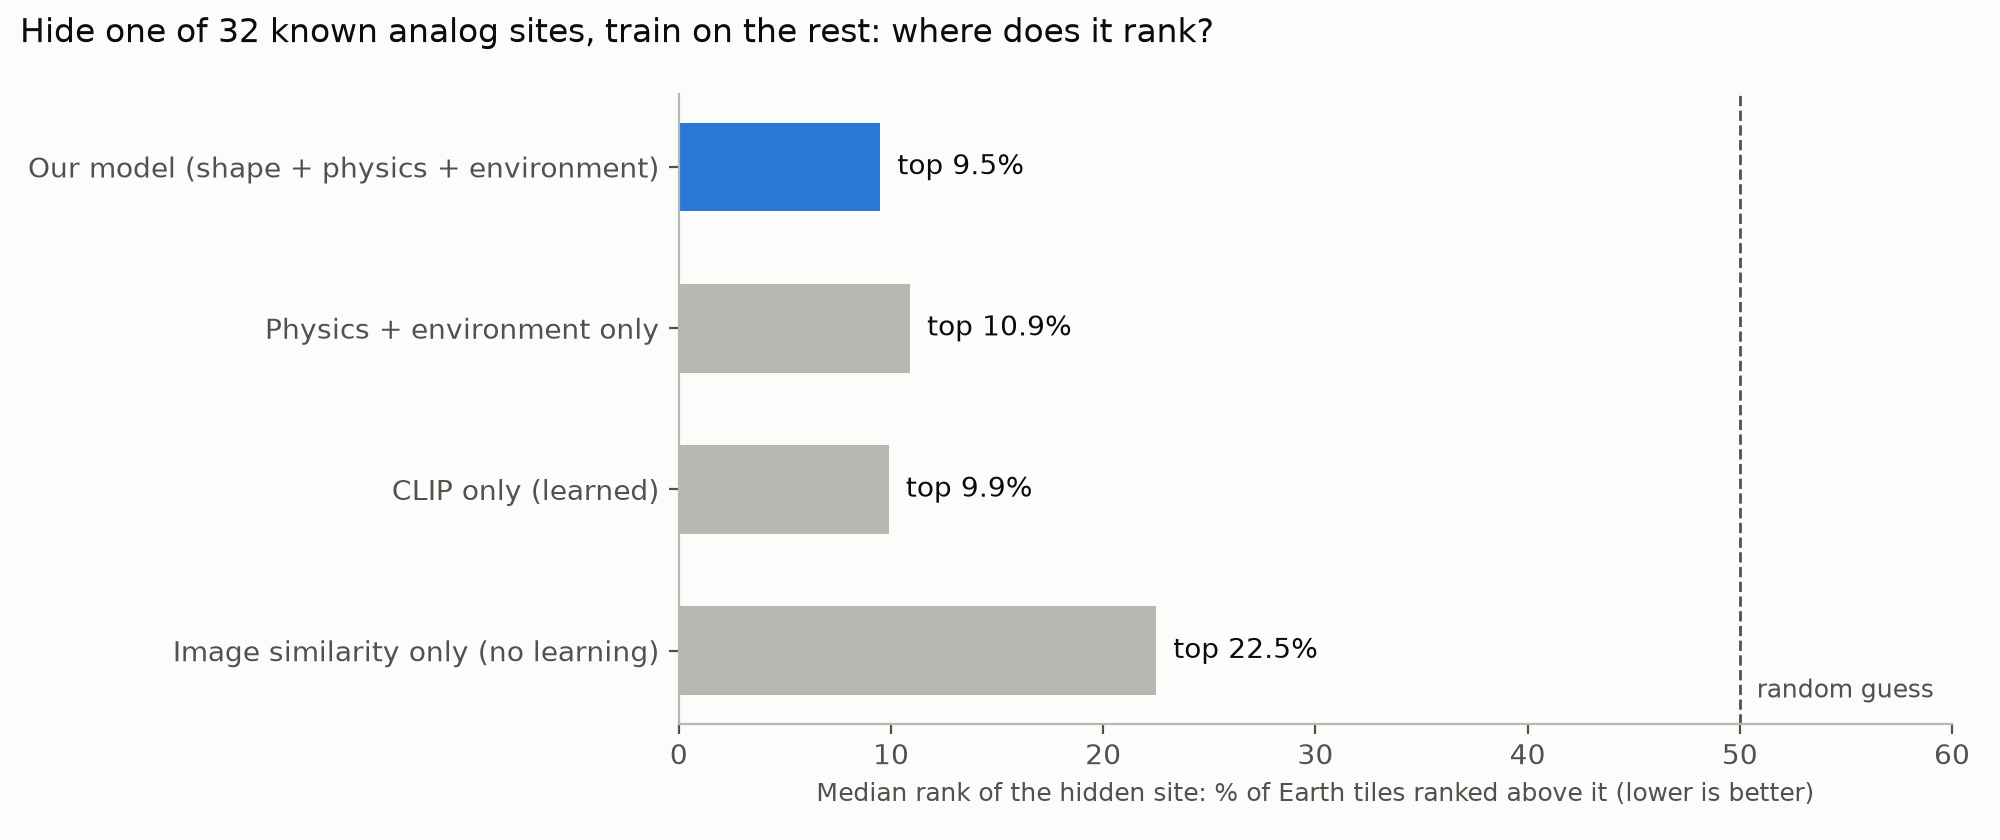
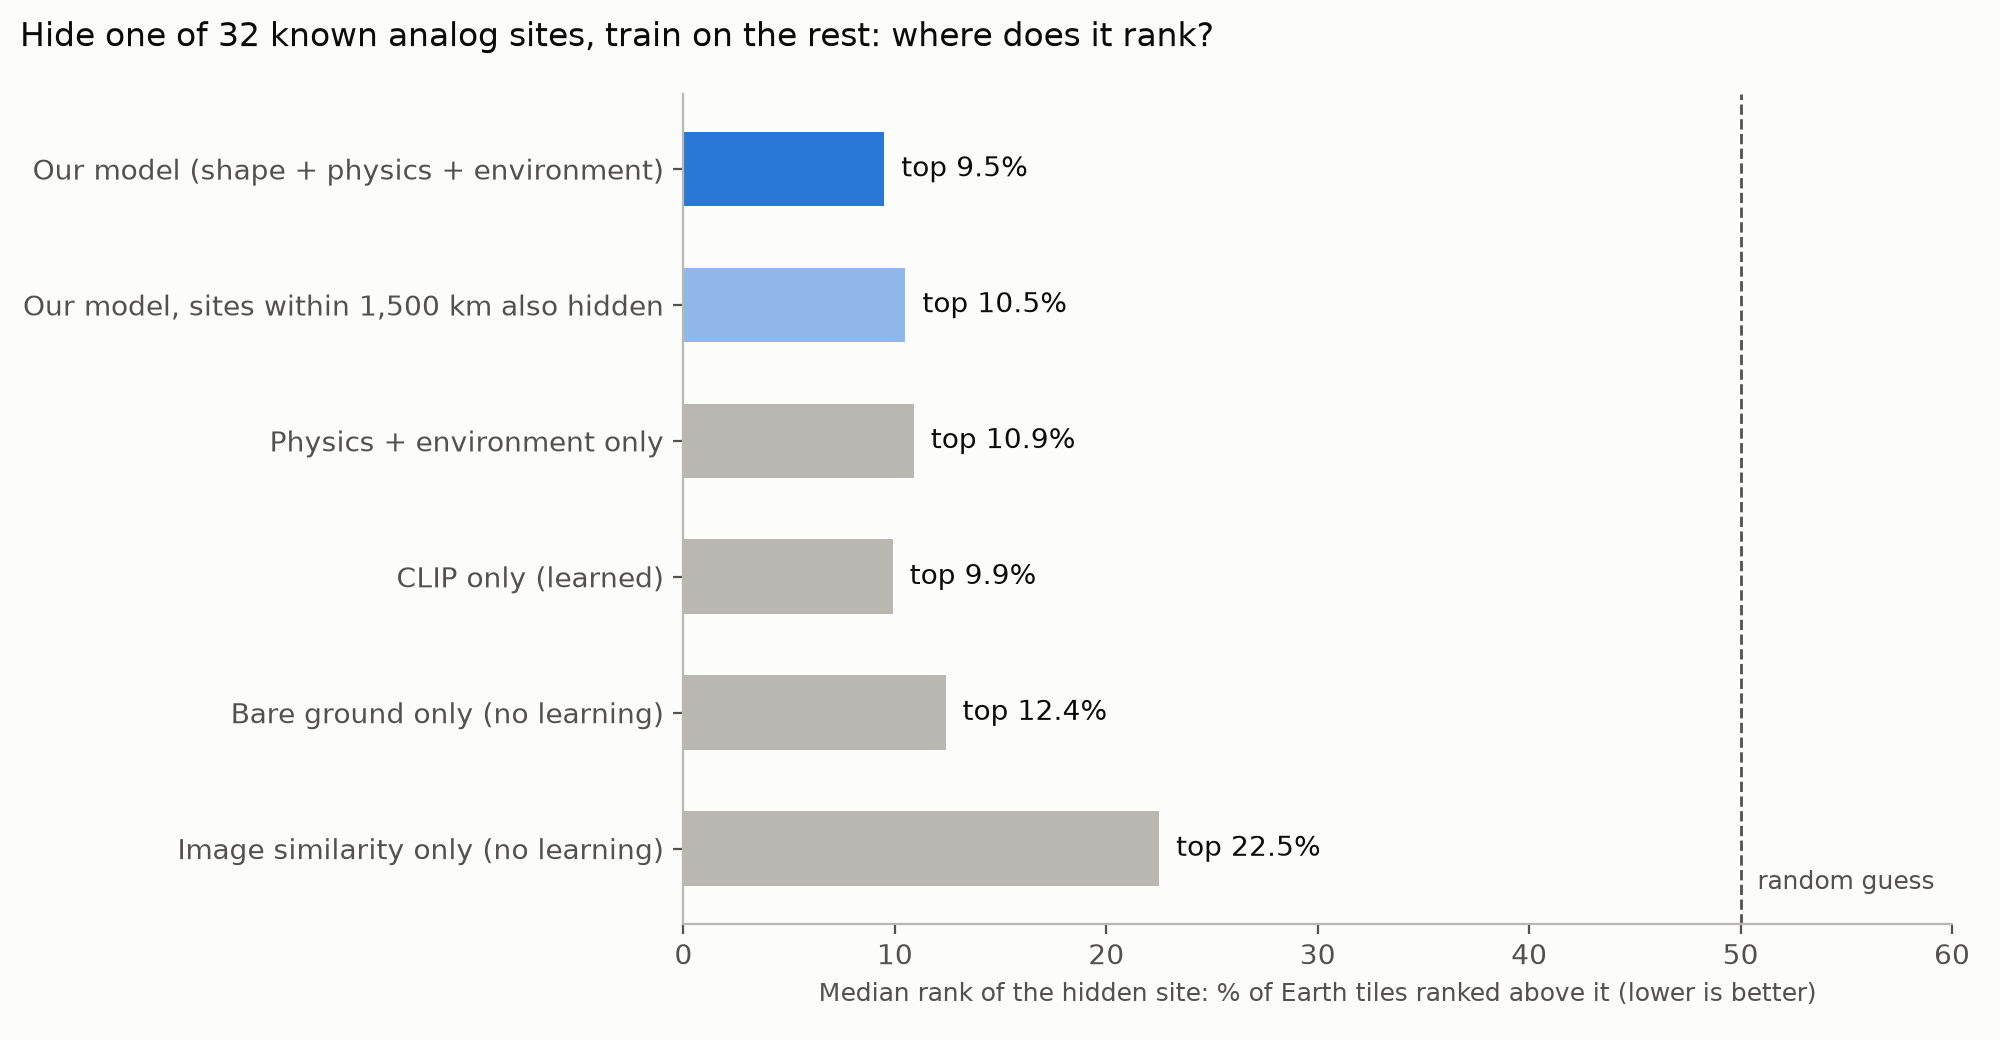
The Cloud Run version of the deploy files is written.

diff --git a/web/src/lib/api.ts b/web/src/lib/api.ts
@@ -28,6 +28,17 @@ const BASE: string = (import.meta.env.VITE_API_BASE ?? "").replace(/\/$/, "");
 export const isLive = () => BASE !== "";
 export const apiMode = (): "live" | "mock" => (isLive() ? "live" : "mock");
 
+/**
+ * Fire-and-forget /health on page load. The API runs on Cloud Run scaled to
+ * zero, so the first request after idle waits for a cold start; starting it
+ * now means it is usually up by the time someone types a search. Errors are
+ * ignored: the static pages don't need it.
+ */
+export function wakeApi(): void {
+  if (!isLive()) return;
+  fetch(`${BASE}/health`).catch(() => {});
+}
+
 export class ApiError extends Error {
   constructor(readonly status: number, message: string) {
     super(message);

diff --git a/web/src/main.tsx b/web/src/main.tsx
@@ -4,6 +4,9 @@ import { BrowserRouter } from "react-router-dom";
 
 import App from "./App";
 import "./index.css";
+import { wakeApi } from "./lib/api";
+
+wakeApi();
 
 createRoot(document.getElementById("root")!).render(
   <StrictMode>

diff --git a/scripts/04_train.py b/scripts/04_train.py
@@ -37,10 +37,21 @@ variants = {
     "Physics + environment only": learn.build_features(earth, parts=("phys", "env")),
 }
 
+# Extra checks (see validation.json "checks_note"): a one-column baseline the
+# model must beat, and hold-one-out that also hides nearby known sites.
+BARE = "Bare ground only (no learning)"
+REGION = "Our model, sites within 1,500 km also hidden"
+
 scores = pd.DataFrame({"tile_id": earth.meta.tile_id})
 val = {"method": "PU logistic regression, hold-one-out over known surface analog sites",
        "note": f"C={learn.C_REG} picked by the same hold-one-out sweep, so results are slightly optimistic",
-       "random_baseline_top_pct": 50.0, "targets": {}}
+       "random_baseline_top_pct": 50.0,
+       "checks_note": (f"'{BARE}' ranks tiles by bare-ground fraction alone: the model must beat it to claim "
+                       f"more than 'barren and dry'. '{REGION}' hides every known site within 1,500 km of the "
+                       "test site, so the model can't score by learning where sites cluster; it is the closer "
+                       "proxy for an unseen region. 'random_sites_control': hold-one-out medians when random "
+                       "tiles pose as known sites; ~50 means the method doesn't find signal in noise."),
+       "targets": {}}
 
 for target in (None, "moon", "mars"):
     key = target or "all"
@@ -48,6 +59,8 @@ for target in (None, "moon", "mars"):
     print(f"\n== {key}: {len(sites)} sites with a land tile")
     res = {name: learn.holdout(F, sites) for name, F in variants.items()}
     res["Image similarity only (no learning)"] = learn.holdout_visual_baseline(earth, sites)
+    res[BARE] = learn.holdout_single_column(earth.meta, sites, "barren_frac")
+    res[REGION] = learn.holdout_region(F_full, sites, earth.meta)
     for name, df in res.items():
         print(f"  {name:45s} {summary(df)}")
 
@@ -64,8 +77,13 @@ for target in (None, "moon", "mars"):
         "sites_used": list(sites),
         "summary": {name: summary(df) for name, df in res.items()},
         "per_site": full.drop(columns="tile_row").round(1).to_dict(orient="records"),
+        "per_site_region_hidden": res[REGION].drop(columns="tile_row").round(1).to_dict(orient="records"),
         "weights": learn.weights(model, F_full).round(3).to_dict(orient="records"),
     }
+
+n_all = len(learn.site_tiles(earth))
+val["random_sites_control"] = {"n_sites": n_all, "runs_median_top_pct": learn.random_sites_control(F_full, n_all)}
+print(f"\nrandom-sites control (should be ~50): {val['random_sites_control']['runs_median_top_pct']}")
 
 val["skipped_sites"] = {
     n: ("process analog (surface unlike Moon/Mars)" if not ANALOG_INFO[n]["surface"] else "no land tile (island)")
@@ -83,13 +101,13 @@ matplotlib.use("Agg")
 import matplotlib.pyplot as plt  # noqa: E402
 
 summ = val["targets"]["all"]["summary"]
-order = ["Image similarity only (no learning)", "CLIP only (learned)",
-         "Physics + environment only", "Our model (shape + physics + environment)"]
+order = ["Image similarity only (no learning)", BARE, "CLIP only (learned)",
+         "Physics + environment only", REGION, "Our model (shape + physics + environment)"]
 INK, MUTED, BLUE, GREY, SURF = "#0b0b0b", "#52514e", "#2a78d6", "#b8b7b1", "#fcfcfb"
-fig, ax = plt.subplots(figsize=(10, 4.2), facecolor=SURF)
+fig, ax = plt.subplots(figsize=(10, 5.2), facecolor=SURF)
 ax.set_facecolor(SURF)
 vals = [summ[k]["median_top_pct"] for k in order]
-colors = [BLUE if k.startswith("Our") else GREY for k in order]
+colors = [BLUE if k.startswith("Our model (") else "#8fb8e8" if k == REGION else GREY for k in order]
 ax.barh(range(len(order)), vals, color=colors, height=0.55)
 ax.axvline(50, color=MUTED, lw=1, ls="--")
 ax.text(50.8, -0.25, "random guess", color=MUTED, fontsize=9, va="center")

diff --git a/analogatlas/learn.py b/analogatlas/learn.py
@@ -137,6 +137,49 @@ def holdout(F: Features, sites: dict[str, int]) -> pd.DataFrame:
     return pd.DataFrame(rows)
 
 
+def holdout_region(F: Features, sites: dict[str, int], meta: pd.DataFrame,
+                   radius_km: float = 1500.0) -> pd.DataFrame:
+    """Like `holdout`, but also hides every other known site within `radius_km`.
+    Known sites cluster (US Southwest, Australian craters), so plain hold-one-out
+    can score well by learning *where* sites are. This is the closer proxy for a
+    region the model has never seen."""
+    pos = set(sites.values())
+    unlabeled = np.array([i for i in range(len(F.X)) if i not in pos])
+    lat, lon = meta.lat.values, meta.lon.values
+    rows = []
+    for name, row in sites.items():
+        near = {q for q in pos if haversine_deg(lat[row], lon[row], lat[q], lon[q]) * 111.2 < radius_km}
+        train = pos - near
+        s = fit(F.X, train).decision_function(F.X)
+        rows.append({"site": name, "tile_row": row, "n_hidden": len(near),
+                     "top_pct": 100 * float((s[unlabeled] > s[row]).mean())})
+    return pd.DataFrame(rows)
+
+
+def holdout_single_column(meta: pd.DataFrame, sites: dict[str, int], col: str,
+                          higher_is_better: bool = True) -> pd.DataFrame:
+    """No-learning baseline: rank tiles by one column (e.g. bare ground). The
+    model must beat this to claim it learned more than 'barren and dry'."""
+    pos = set(sites.values())
+    unlabeled = np.array([i for i in range(len(meta)) if i not in pos])
+    v = meta[col].astype(float)
+    s = v.fillna(v.median()).values * (1 if higher_is_better else -1)
+    return pd.DataFrame([{"site": name, "tile_row": row,
+                          "top_pct": 100 * float((s[unlabeled] > s[row]).mean())}
+                         for name, row in sites.items()])
+
+
+def random_sites_control(F: Features, n_sites: int, runs: int = 5, seed: int = 0) -> list[float]:
+    """Sanity check: random tiles posing as 'known sites'. Hold-one-out medians
+    should hover around 50; if they don't, the method is finding signal in noise."""
+    rng = np.random.default_rng(seed)
+    out = []
+    for _ in range(runs):
+        fake = {f"random_{i}": int(r) for i, r in enumerate(rng.choice(len(F.X), n_sites, replace=False))}
+        out.append(round(float(holdout(F, fake).top_pct.median()), 1))
+    return out
+
+
 def holdout_visual_baseline(earth: BodyIndex, sites: dict[str, int], w_shade: float = 0.6) -> pd.DataFrame:
     """What an image-only approach does: rank tiles by CLIP similarity to the
     other known sites (best match), no physics, no learning."""

diff --git a/deploy/api/fetch_data.py b/deploy/api/fetch_data.py
@@ -1,0 +1,50 @@
+"""Fetch what the API needs from the GitHub Release `data` (used by the Dockerfile).
+
+Retries and resumes, because the 588 MB tiles tar does get cut off mid-download.
+Standard library only: the image has no curl.
+"""
+import sys
+import tarfile
+import time
+import urllib.request
+from pathlib import Path
+
+REPO = sys.argv[1] if len(sys.argv) > 1 else "FionaL7/AnalogAtlas"
+BASE = f"https://github.com/{REPO}/releases/download/data"
+DATA = Path("data")
+INDEX = [f"{body}_{f}" for body in ("moon", "moon_polar", "earth")
+         for f in ("meta.parquet", "img.npy", "shade.npy", "order.json")] + ["earth_scores.parquet"]
+TILES = ["moon", "earth"]
+
+
+def get(url: str, dest: Path, tries: int = 6) -> None:
+    for attempt in range(1, tries + 1):
+        have = dest.stat().st_size if dest.exists() else 0
+        req = urllib.request.Request(url, headers={"Range": f"bytes={have}-"} if have else {})
+        try:
+            with urllib.request.urlopen(req, timeout=60) as r:
+                total = have + int(r.headers.get("Content-Length", 0))
+                if have and r.status != 206:      # server ignored Range: start over
+                    have, total = 0, int(r.headers.get("Content-Length", 0))
+                with open(dest, "ab" if have else "wb") as f:
+                    while chunk := r.read(1 << 20):
+                        f.write(chunk)
+            if dest.stat().st_size >= total:
+                print(f"ok {dest} ({dest.stat().st_size / 1e6:.1f} MB)")
+                return
+        except Exception as e:  # noqa: BLE001 - any network error: retry
+            print(f"{dest.name}: attempt {attempt} failed: {e}")
+        time.sleep(3 * attempt)
+    sys.exit(f"could not download {url}")
+
+
+(DATA / "index").mkdir(parents=True, exist_ok=True)
+(DATA / "tiles").mkdir(parents=True, exist_ok=True)
+for name in INDEX:
+    get(f"{BASE}/index__{name}", DATA / "index" / name)
+for body in TILES:
+    tar = Path(f"/tmp/tiles_{body}.tar")
+    get(f"{BASE}/tiles__{body}.tar", tar)
+    with tarfile.open(tar) as tf:
+        tf.extractall(DATA / "tiles", filter="data")
+    tar.unlink()

diff --git a/docs/DEPLOY.md b/docs/DEPLOY.md
@@ -1,0 +1,71 @@
+# Deploy
+
+The API runs on **Cloud Run** in project `analogatlas-ee`, region `us-central1` ([#21](https://github.com/FionaL7/AnalogAtlas/issues/21)). The frontend host is still to do.
+
+## How it works
+
+- Push to `main` touching `api/`, `analogatlas/` or `deploy/api/` → Cloud Build trigger `deploy-api` runs [deploy/api/cloudbuild.yaml](../deploy/api/cloudbuild.yaml): build image → push → deploy.
+- The image bakes in CLIP and pulls the index and tiles from the GitHub Release `data` at build time. No keys in the repo.
+- **Scale to zero** (`--min-instances=0`): ~free while idle. The first request after ~15 min idle waits 10–30 s (cold start). The frontend pings `/health` on page load to start it early.
+- Only the 2 newest images are kept ([cleanup-policy.json](../deploy/api/cleanup-policy.json)), so storage stays ~$0.50/month.
+
+## Redeploy after new data
+
+After `python scripts/data.py push index` (or tiles), rebuild so the image picks it up:
+
+```bash
+gcloud builds triggers run deploy-api --branch=main --region=us-central1
+```
+Or: Console → Cloud Build → Triggers → `deploy-api` → Run.
+
+## One-time setup (Fiona)
+
+1. **Billing**: link a billing account to `analogatlas-ee`. Then Billing → Budgets & alerts → budget of $5 with email alerts.
+2. **gcloud**:
+   ```bash
+   brew install --cask google-cloud-sdk
+   gcloud auth login
+   gcloud config set project analogatlas-ee
+   ```
+3. **APIs, image repo, cleanup**:
+   ```bash
+   gcloud services enable run.googleapis.com cloudbuild.googleapis.com artifactregistry.googleapis.com
+   gcloud artifacts repositories create analogatlas --repository-format=docker --location=us-central1
+   gcloud artifacts repositories set-cleanup-policies analogatlas --location=us-central1 \
+     --policy=deploy/api/cleanup-policy.json
+   ```
+4. **Deploy service account**:
+   ```bash
+   SA=deployer@analogatlas-ee.iam.gserviceaccount.com
+   gcloud iam service-accounts create deployer --display-name="Cloud Build deployer"
+   for r in run.admin artifactregistry.writer logging.logWriter iam.serviceAccountUser; do
+     gcloud projects add-iam-policy-binding analogatlas-ee --member=serviceAccount:$SA --role=roles/$r
+   done
+   ```
+5. **Trigger** (Console → Cloud Build → Triggers, region `us-central1`):
+   - Connect repository → GitHub → install the Cloud Build app on `FionaL7/AnalogAtlas`.
+   - Create trigger: name `deploy-api`, event *Push to a branch*, branch `^main$`.
+   - Included files filter: `api/**`, `analogatlas/**`, `deploy/api/**`.
+   - Configuration: Cloud Build file, location `deploy/api/cloudbuild.yaml`.
+   - Service account: `deployer@analogatlas-ee.iam.gserviceaccount.com`.
+6. **First deploy**: click Run on the trigger. ~10–15 min. Then:
+   ```bash
+   URL=$(gcloud run services describe analogatlas-api --region=us-central1 --format='value(status.url)')
+   curl $URL/health    # should list moon, moon_polar, earth
+   ```
+   Post `$URL` on the Team log: the frontend build needs it as `VITE_API_BASE`.
+7. **Give Rishabh access** so deploys don't wait on one person:
+   ```bash
+   gcloud projects add-iam-policy-binding analogatlas-ee \
+     --member=user:<rishabh's google email> --role=roles/run.developer
+   gcloud projects add-iam-policy-binding analogatlas-ee \
+     --member=user:<rishabh's google email> --role=roles/cloudbuild.builds.editor
+   ```
+
+## Gotchas
+
+- `$` starts a substitution in `cloudbuild.yaml`; shell variables must be `$$`.
+- torch and torchvision must both come from the CPU index (see the Dockerfile).
+- uvicorn needs `--proxy-headers`, or `tile_url` comes back `http://` and HTTPS pages block it.
+- `moon_polar` tile images aren't on the `data` release yet, so `/tile/moon_polar/...` returns 404.
+- Local test: `echo local > .build-stamp && docker build -f deploy/api/Dockerfile -t aa-api . && docker run -p 8080:8080 aa-api`.

diff --git a/docs/PLAN.md b/docs/PLAN.md
@@ -164,10 +164,9 @@ The next milestone is the Earth index. Every Earth–Moon feature in the app dep
 - Laptop + Earth Engine + Colab for the pipeline (no paid compute there)
 - Two developers: Dev A (data and ML), Dev B (app and radar)
 - **Static export is not committed.** `web/public/data/` is gitignored; the deploy pulls `data/index/` from the `data` release and runs `scripts/03_export.py` before building the frontend ([#34](https://github.com/FionaL7/AnalogAtlas/issues/34), [#21](https://github.com/FionaL7/AnalogAtlas/issues/21)).
-- **Hosting: Google Cloud**, on Fiona's account: the same Cloud project as Earth Engine ([#5](https://github.com/FionaL7/AnalogAtlas/issues/5)).
-  - API on Cloud Run. Domain **marsneedsmaps.space** (Porkbun offer).
-  - Set up later today, under [#21](https://github.com/FionaL7/AnalogAtlas/issues/21).
-  - Still to settle then: frontend host (Firebase Hosting or Vercel) and the CD pipeline.
+- **Hosting** ([#21](https://github.com/FionaL7/AnalogAtlas/issues/21)). Domain **marsneedsmaps.space** (Porkbun offer).
+  - **API: Cloud Run**, scale to zero (~$1–2 over a 1–2 month judging period). Hugging Face was ruled out: Docker Spaces now need PRO. How it deploys and setup: [DEPLOY.md](DEPLOY.md).
+  - Frontend host: Firebase Hosting (free tier); setup still to do.
 
 - **Sharing `data/`: GitHub Release files** ([#8](https://github.com/FionaL7/AnalogAtlas/issues/8)), release tag `data`. Free, `gh` already works on every device, 2 GB per file. `python scripts/data.py pull|push`. The last push of a file wins.
 - **Map library: Leaflet** (react-leaflet), one map per body in EPSG:4326 ([#24](https://github.com/FionaL7/AnalogAtlas/issues/24)). Trek and GIBS tiles are plain lat/lon, which Leaflet renders natively; MapLibre only does Web Mercator or globe. The polar pane uses a custom Leaflet CRS in `web/src/lib/polar.ts` — **no proj4leaflet**: the spherical stereographic forward/inverse is six lines and Leaflet takes a custom CRS directly.
